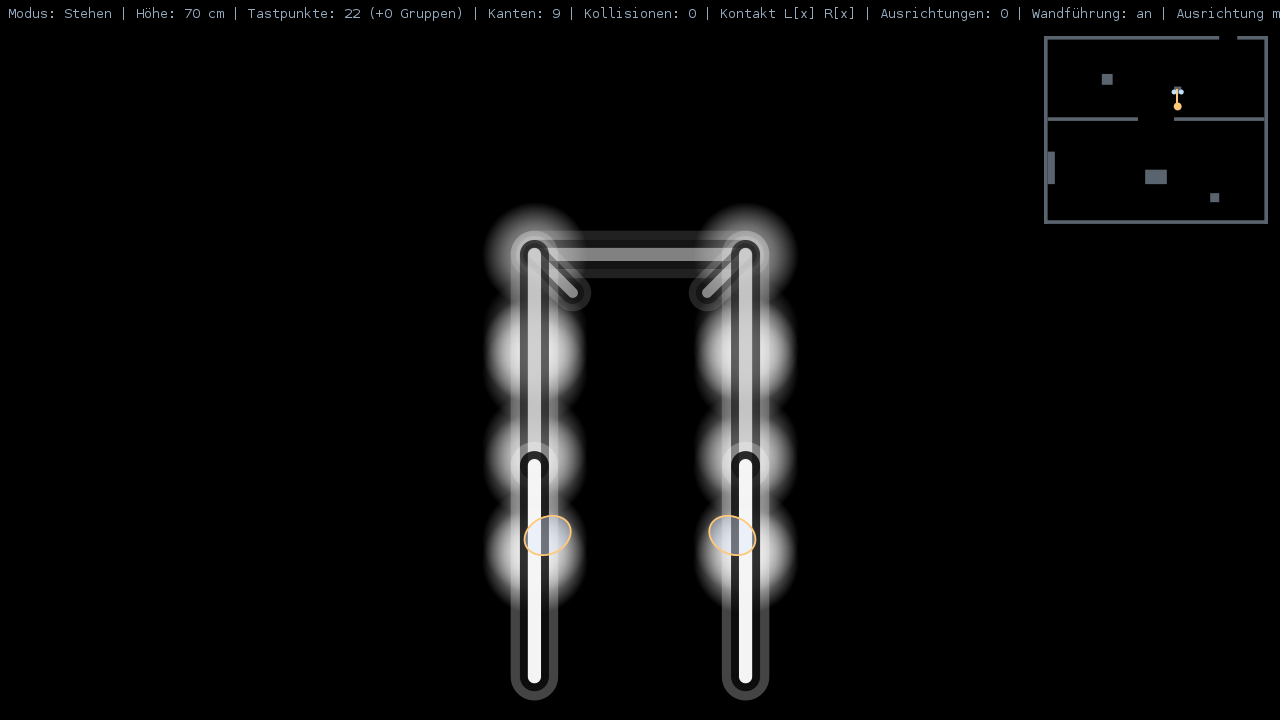
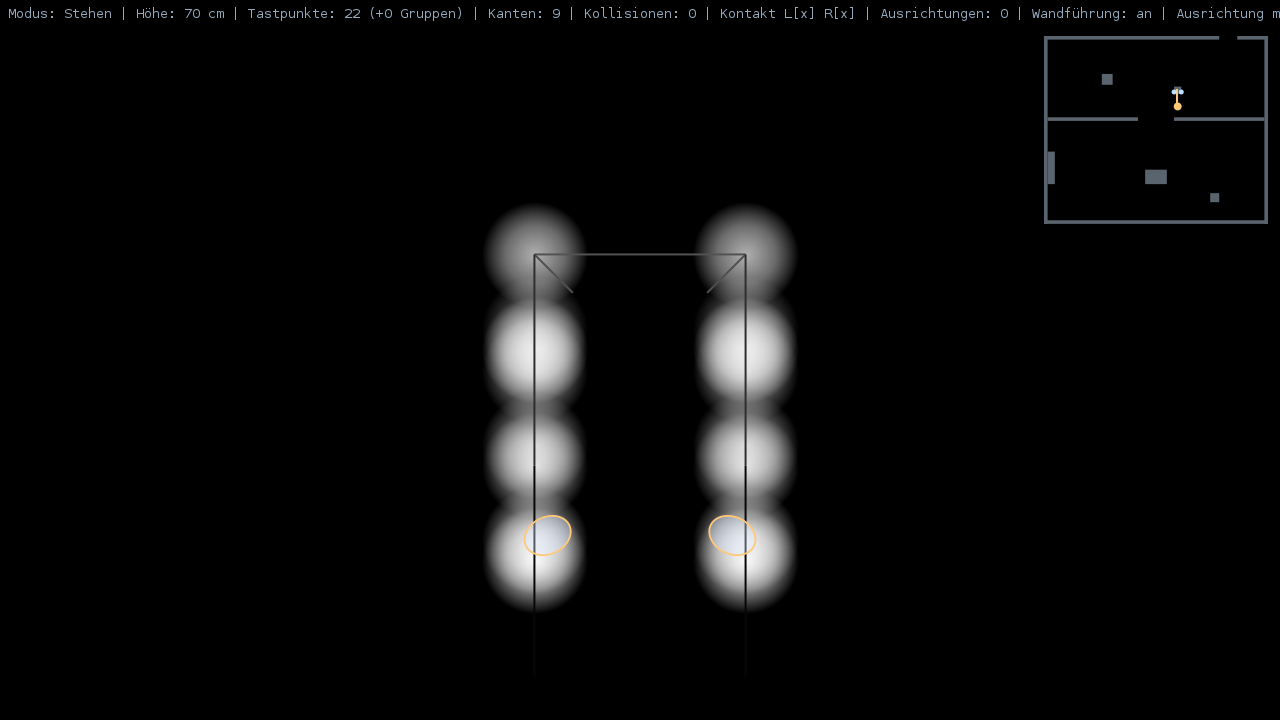
Kanten: schwarze 2-Punkt-Linie, beim Verblassen aufgehellt (Konzept 3.4)
- Linie schwarz, konstant 2 Punkte breit (KANTE_BREITE_PUNKTE), ohne Schein und Saum
- Verblassen gegensätzlich zu den Kugeln: Grauwert bis KANTE_AUFHELLUNG_MAX, ab KANTE_AUSBLENDEN transparent
- Selbsttest angepasst (171 Prüfungen), Konzept/README 3.4, Beispielbilder neu

Claude-Session: https://claude.ai/code/session_01HK92kn1QMMNELsPL5fgYzH

Changed region(s): [[0.375, 0.3056, 0.625, 0.9778]]

diff --git a/test/blindspace/test/Selbsttest.java b/test/blindspace/test/Selbsttest.java
@@ -948,51 +948,65 @@ public final class Selbsttest {
     }
 
     /**
-     * Prüft die Darstellung der Kanten: helle Linie am erwarteten Bildpunkt, schwarz daneben, dunkler bei
-     * verblasster Kante, keine Ausgabe (und kein Fehler) für Kanten hinter der Kamera, Kürzen an der Bildebene.
+     * Prüft die Darstellung der Kanten: schwarze Linie von 2 Punkten Breite auf einer hellen Tastkugel, beim
+     * Verblassen heller (gegensätzlich zur Kugel), am Ende unsichtbar, keine Ausgabe für Kanten hinter der Kamera,
+     * Kürzen an der Bildebene.
      */
     static void kantenDarstellung() {
-        titel("Kanten: Darstellung als helle Linien (Abschnitt 8.5)");
+        titel("Kanten: Darstellung als schwarze Linien (Abschnitt 8.5)");
         int w = 1280, h = 720;
         Spiel s = new Spiel(62, leeresLevel());
         double ez = s.koerper.augenZ();
         double f = (w / 2.0) / Math.tan(SICHTFELD / 2);
         int px = w / 2, py = (int) Math.round(h / 2.0 - f * (1.1 - ez) / 2.0); // Mitte der Kante bei y = 2 m, z = 1,1
         pruefe(py > 40 && py < h - 40, "Aufbau: erwarteter Bildpunkt (" + px + "|" + py + ") liegt im Bild");
+        Kantenstueck kante = new Kantenstueck(1, 2, 0, 0, 2, 0, 2.0, 1.0, 0, 2.0, 1.2, Oberflaeche.GLATT);
 
-        BufferedImage leer = zeichne(s, w, h);
-        pruefe(helligkeit(leer, px, py) < 10, "ohne Kante bleibt der Bildpunkt schwarz");
+        // helle Tastkugel hinter der Kante
+        s.tastpunkte.hinzufuegen(new Tastpunkt(0, 2.0, 1.1, s.zeit(), 1.0, 0.6, KZ_DAUER_STEHEN, 1));
+        BufferedImage kugel = zeichne(s, w, h);
+        pruefe(helligkeit(kugel, px + 12, py) > 120, "Aufbau: Kugel ist hell (" + helligkeit(kugel, px + 12, py) + ")");
 
-        s.tastpunkte.kante(new Tastkante(new Kantenstueck(1, 2, 0, 0, 2, 0, 2.0, 1.0, 0, 2.0, 1.2, Oberflaeche.GLATT),
-                s.zeit(), 1.0, KZ_DAUER_STEHEN));
+        s.tastpunkte.kante(new Tastkante(kante, s.zeit(), 1.0, KZ_DAUER_STEHEN));
         BufferedImage mit = zeichne(s, w, h);
-        pruefe(helligkeit(mit, px, py) > 240, "frische Kante: weißer Kern (" + helligkeit(mit, px, py) + ")");
-        pruefe(helligkeit(mit, px + 80, py) < 10 && helligkeit(mit, px, py - 150) < 10, "neben und über der Linie bleibt es schwarz");
-        int breite = 0;
+        int dunkel = 0;
         for (int x = px - 40; x <= px + 40; x++) {
-            if (helligkeit(mit, x, py) > 200) {
-                breite++;
+            if (helligkeit(mit, x, py) < 60) {
+                dunkel++;
             }
         }
-        pruefe(breite >= (int) KANTE_MIN_PIXEL - 1, "Linie mindestens " + (int) KANTE_MIN_PIXEL + " Pixel breit (" + breite + ")");
+        pruefe(helligkeit(mit, px, py) < 40, "frische Kante: schwarzer Kern (" + helligkeit(mit, px, py) + ")");
+        pruefe(helligkeit(mit, px + 12, py) > 120 && helligkeit(mit, px - 12, py) > 120, "neben der Linie bleibt die Kugel hell");
+        pruefe(dunkel >= 2 && dunkel <= 3, "Linie 2 Punkte breit (" + dunkel + " Pixel)");
 
+        // Verblassen: Kugel und Kante gleich alt (10 s im Stehen): Linie heller als frisch
+        Spiel mittel = new Spiel(66, leeresLevel());
+        mittel.tastpunkte.kante(new Tastkante(kante, mittel.zeit() - 10.0, 1.0, KZ_DAUER_STEHEN));
+        int hMittel = helligkeit(zeichne(mittel, w, h), px, py);
+        pruefe(hMittel > 60 && hMittel < 200, "verblasste Kante ist aufgehellt, grau (" + hMittel + ")");
+        Spiel kg = new Spiel(67, leeresLevel());
+        kg.tastpunkte.hinzufuegen(new Tastpunkt(0, 2.0, 1.1, kg.zeit(), 1.0, 0.6, KZ_DAUER_STEHEN, 1));
+        kg.tastpunkte.kante(new Tastkante(kante, kg.zeit() - 10.0, 1.0, KZ_DAUER_STEHEN));
+        pruefe(helligkeit(zeichne(kg, w, h), px, py) > helligkeit(mit, px, py) + 40, "auf gleicher Kugel: älter = heller als frisch");
+
+        // Ende des Gedächtnisses: unsichtbar auf schwarzem Grund
         Spiel alt = new Spiel(63, leeresLevel());
-        alt.tastpunkte.kante(new Tastkante(teststueck(Oberflaeche.GLATT), alt.zeit() - 29.0, 1.0, KZ_DAUER_STEHEN));
-        pruefe(helligkeit(zeichne(alt, w, h), px, py) < helligkeit(mit, px, py) / 2, "verblasste Kante ist deutlich dunkler");
+        alt.tastpunkte.kante(new Tastkante(kante, alt.zeit() - 29.9, 1.0, KZ_DAUER_STEHEN));
+        pruefe(helligkeit(zeichne(alt, w, h), px, py) < 30, "fast verblasste Kante ist (fast) unsichtbar");
 
-        // Kanten außerhalb des Blickfelds: hinter der Kamera und an ihr vorbei
+        // Kanten außerhalb des Blickfelds: hinter der Kamera und an ihr vorbei (aufgehellte Linie, sichtbar auf Schwarz)
         Spiel hinten = new Spiel(64, leeresLevel());
         hinten.tastpunkte.kante(new Tastkante(new Kantenstueck(1, 2, 0, 0, 0, 0, -2.0, 1.0, 0, -2.0, 1.2, Oberflaeche.GLATT),
-                hinten.zeit(), 1.0, KZ_DAUER_STEHEN));
+                hinten.zeit() - 10.0, 1.0, KZ_DAUER_STEHEN));
         pruefe(helligkeit(zeichne(hinten, w, h), px, py) < 10, "Kante hinter der Kamera wird nicht gezeichnet");
 
         Spiel quer = new Spiel(65, leeresLevel());
         quer.tastpunkte.kante(new Tastkante(new Kantenstueck(1, 1, 0, 0, 0, 0, -1.0, 1.0, 0, 3.0, 1.0, Oberflaeche.GLATT),
-                quer.zeit(), 1.0, KZ_DAUER_STEHEN));
+                quer.zeit() - 10.0, 1.0, KZ_DAUER_STEHEN));
         BufferedImage q = zeichne(quer, w, h);
         int hell = 0;
         for (int yy = 40; yy < h; yy++) {
-            if (helligkeit(q, px, yy) > 200) {
+            if (helligkeit(q, px, yy) > 60) {
                 hell++;
             }
         }

diff --git a/src/blindspace/anzeige/Ansicht.java b/src/blindspace/anzeige/Ansicht.java
@@ -356,19 +356,22 @@ public final class Ansicht extends JPanel {
     }
 
     /**
-     * Zeichnet alle ertasteten Kantenstücke als scharfe weiße Linien mit weichem Schein und dunklem Saum, über den
-     * Tastpunkten, damit keine Kugel eine Kante verdeckt und die Linie auch auf hellem Grund sichtbar bleibt. Die Deckkraft ist die Helligkeit des Stücks; die Linienbreite wächst perspektivisch, bleibt aber mindestens
-     * {@code KANTE_MIN_PIXEL} breit, damit auch entfernte Kanten gut sichtbar sind.
+     * Zeichnet alle ertasteten Kantenstücke als schwarze Linien konstanter Breite ({@code KANTE_BREITE_PUNKTE}) über
+     * den Tastpunkten, als Kontrast zu den hellen Kugeln. Beim Verblassen verhält sich die Linie gegensätzlich zu den
+     * Kugeln: Je dunkler diese werden, desto heller wird die Linie (bis {@code KANTE_AUFHELLUNG_MAX}); unterhalb von
+     * {@code KANTE_AUSBLENDEN} der Starthelligkeit wird sie zusätzlich transparent und verschwindet.
      *
      * @param g   Grafikkontext
      * @param cam Kamera
      */
     private void zeichneKanten(Graphics2D g, Kamera cam) {
         double zeit = spiel.zeit();
+        g.setComposite(AlphaComposite.SrcOver);
         g.setRenderingHint(RenderingHints.KEY_STROKE_CONTROL, RenderingHints.VALUE_STROKE_PURE);
+        g.setStroke(new BasicStroke((float) KANTE_BREITE_PUNKTE, BasicStroke.CAP_BUTT, BasicStroke.JOIN_ROUND));
         for (Tastkante k : spiel.tastpunkte.kanten()) {
-            double hell = Math.min(1.0, k.helligkeit(zeit));
-            if (hell < 0.004) {
+            double rel = Math.min(1.0, k.helligkeit(zeit) / k.h0);
+            if (rel < 0.004) {
                 continue;
             }
             double[] l = cam.strecke(k.stueck.x0(), k.stueck.y0(), k.stueck.z0(), k.stueck.x1(), k.stueck.y1(),
@@ -376,24 +379,11 @@ public final class Ansicht extends JPanel {
             if (l == null) {
                 continue;
             }
-            double tiefe = (l[2] + l[5]) / 2;
-            float breite = (float) Math.max(KANTE_MIN_PIXEL, cam.f * KANTE_BREITE / tiefe);
-            Line2D.Double linie = new Line2D.Double(l[0], l[1], l[3], l[4]);
-            // Schein (weiß, breit, schwach), dunkler Saum (hebt die Linie von hellen Tastpunkten ab), heller Kern
-            g.setComposite(AlphaComposite.getInstance(AlphaComposite.SRC_OVER, (float) (0.28 * hell)));
-            g.setStroke(new BasicStroke(breite * 3.6f, BasicStroke.CAP_ROUND, BasicStroke.JOIN_ROUND));
-            g.setColor(Color.WHITE);
-            g.draw(linie);
-            g.setComposite(AlphaComposite.getInstance(AlphaComposite.SRC_OVER, (float) (0.85 * hell)));
-            g.setStroke(new BasicStroke(breite * 2.2f, BasicStroke.CAP_ROUND, BasicStroke.JOIN_ROUND));
-            g.setColor(Color.BLACK);
-            g.draw(linie);
-            g.setComposite(AlphaComposite.getInstance(AlphaComposite.SRC_OVER, (float) hell));
-            g.setStroke(new BasicStroke(breite, BasicStroke.CAP_ROUND, BasicStroke.JOIN_ROUND));
-            g.setColor(Color.WHITE);
-            g.draw(linie);
+            int grau = (int) Math.round(255 * KANTE_AUFHELLUNG_MAX * (1 - rel));
+            int deckkraft = (int) Math.round(255 * Math.min(1.0, rel / KANTE_AUSBLENDEN));
+            g.setColor(new Color(grau, grau, grau, deckkraft));
+            g.draw(new Line2D.Double(l[0], l[1], l[3], l[4]));
         }
-        g.setComposite(AlphaComposite.SrcOver);
         g.setStroke(new BasicStroke(1f));
     }
 

diff --git a/src/blindspace/konfig/Konstanten.java b/src/blindspace/konfig/Konstanten.java
@@ -146,11 +146,20 @@ public final class Konstanten {
      */
     public static final double KANTE_ERNEUERUNG = 0.1;
 
-    /** Linienbreite einer Kante in Metern (perspektivisch skaliert). */
-    public static final double KANTE_BREITE = 0.025;
+    /** Linienbreite einer Kante auf dem Bildschirm in Punkten (unabhängig von der Entfernung). */
+    public static final double KANTE_BREITE_PUNKTE = 2.0;
 
-    /** Kleinste Linienbreite einer Kante auf dem Bildschirm in Pixeln. */
-    public static final double KANTE_MIN_PIXEL = 4.0;
+    /**
+     * Größter Grauwert (0 = schwarz, 1 = weiß), auf den eine verblassende Kante aufgehellt wird. Eine frische Kante
+     * ist schwarz (Kontrast zu den hellen Tastkugeln); je mehr die Kugeln verblassen, desto heller wird die Linie.
+     */
+    public static final double KANTE_AUFHELLUNG_MAX = 0.6;
+
+    /**
+     * Relative Helligkeit (aktuelle durch Start-Helligkeit), unterhalb der eine Kante zusätzlich ausgeblendet wird,
+     * damit sie am Ende des Gedächtnisses verschwindet, statt als helle Linie stehen zu bleiben.
+     */
+    public static final double KANTE_AUSBLENDEN = 0.25;
 
     // ===== Gedächtnis (Konzept Abschnitt 8) =====
 

diff --git a/docs/Blindspace_Konzept_v3.md b/docs/Blindspace_Konzept_v3.md
@@ -1,4 +1,4 @@
-# Blindspace – Spielkonzept, Version 3.3 (bereinigt)
+# Blindspace – Spielkonzept, Version 3.4 (bereinigt)
 
 > Dieses Dokument beschreibt das Spielkonzept „Blindspace" (früher „Der Ausgang") vollständig, inklusive aller Entscheidungen aus der Prototyp-Iteration und der anschließenden Konzeptprüfung. Es ist als Eingabe (KI-Prompt) für die nächste Iteration formuliert. Ein existierender Java-Prototyp (Eclipse, Java 17, AWT/Swing, keine externen Abhängigkeiten) bestätigt die Spielbarkeit der Mechanik. Diese Fassung ersetzt Version 1 und 2 und ist die verbindliche Basis. Das übergeordnete Spielkonzept steht im „Blindspace – Game Design Document" (Version 1.0); dieses Dokument legt die Steuerung und das Gedächtnismodell des Prototyps fest und weist Abweichungen zum GDD aus (Abschnitt 15).
 
@@ -19,7 +19,7 @@
 | 7.5 | (v3.2) Neu: **automatische Parallelausrichtung** beim Loslaufen, wenn eine seitlich tastende Hand eine senkrechte Fläche berührt und die Blickrichtung höchstens 20° von der Flächenrichtung abweicht. Sie startet auch die Wandführung. Die Ausrichtung per Leertaste bleibt. |
 | 4.3 | (v3.2) Tiefstes Tastband beginnt bei 5 cm statt 20 cm (Stufen ertastbar); Maximum bleibt 180 cm. Der Boden selbst und Gegenstände unterhalb des Bandes sind nicht ertastbar. |
 | 4.3, 5 | (v3.2) Geduckt (Körperhöhen 70 / 50 / 30 cm) sind Einzelschritte von 10 cm vorwärts und rückwärts möglich; bisher war Gehen geduckt gesperrt. |
-| 8.5 | (v3.3) Neu: **Kanten.** Berührt eine Hand eine Quaderfläche höchstens 5 cm von einer Kante entfernt, wird ein 40 cm langes Kantenstück als helle Linie sichtbar (weißer Kern, dunkler Saum, über den Tastpunkten). Kanten werden bei jedem Simulationsschritt geprüft, verblassen wie Tastpunkte und werden bei erneuter Berührung aufgefrischt. Abweichung vom GDD: Linien statt Kugeln (Abschnitt 15.2). |
+| 8.5 | (v3.4) Darstellung geändert: schwarze Linie, 2 Punkte breit, beim Verblassen aufgehellt (gegensätzlich zu den Kugeln). (v3.3) Neu: **Kanten.** Berührt eine Hand eine Quaderfläche höchstens 5 cm von einer Kante entfernt, wird ein 40 cm langes Kantenstück als Linie sichtbar (schwarz, über den Tastpunkten). Kanten werden bei jedem Simulationsschritt geprüft, verblassen wie Tastpunkte und werden bei erneuter Berührung aufgefrischt. Abweichung vom GDD: Linien statt Kugeln (Abschnitt 15.2). |
 | 15 | Neu in v3.0: Mehrgeschossigkeit (Planung) und Abgleich mit dem Blindspace-GDD. |
 | 9 | Ablauf bei niedrigen Objekten neu beschrieben; Erreichbarkeitstabelle ergänzt (korrigiert in v2.1); Pfeiler auf 1,6 m erhöht; Tippfehler und Widerspruch entfernt. |
 | 14 | Neu in v2.1: Umsetzungsentscheidungen des Eclipse-Prototyps. |
@@ -253,7 +253,7 @@ Kanten sind wichtig, um Objekte zu erkennen (GDD Abschnitt 16: „Unterscheidung
 - **Takt.** Anders als Tastpunkte (höchstens alle 0,5 s) werden Kanten bei **jedem Simulationsschritt** geprüft. Eine Hand, die schnell über eine Kante streicht (bis 1,6 m/s), würde die schmale Zone sonst zwischen zwei Tastpunkten verpassen.
 - **Helligkeit und Gedächtnis.** Start 100 % im Stehen und **80 %** im Gehen, also heller als ein Tastpunkt (50 % im Gehen), damit Linien lesbar bleiben. Im Kurzzeitgedächtnis gilt dasselbe Verblassen wie bei Punkten (8.3: 15 s im Gehen, 30 s im Stehen bis 2,5 %). Danach sinkt die Helligkeit linear auf 0 (12 min, bei strukturierten Oberflächen 6 min). Kanten werden **nicht zu Gruppen zusammengefasst und nicht unscharf**: Ein Kantenstück bleibt eine scharfe Linie, bis es verschwindet. Kollisionen dämpfen Kanten wie Punkte (Faktoren aus Abschnitt 6).
 - **Auffrischen.** Von jedem Kantenstück gibt es höchstens eine Instanz. Eine erneute Berührung setzt Helligkeit und Zeit zurück (frühestens 0,1 s nach der letzten Aufnahme, `KANTE_ERNEUERUNG`). Das ist für Kanten schon festgelegt, damit nicht bei jedem Schritt neue Objekte entstehen; ein Zeitzuschlag (+2 s, GDD Abschnitt 4) gibt es nicht. Für Tastpunkte bleibt das Auffrischen offen (15.2).
-- **Darstellung.** Weiße Linie, 2,5 cm breit (perspektivisch, auf dem Bildschirm mindestens 4 Pixel), mit weichem weißem Schein und einem **dunklen Saum**. Der Saum hebt die Linie auch von hellen Tastpunkten ab, über denen sie gezeichnet wird. Linien, die teilweise hinter der Kamera liegen, werden an der Bildebene gekürzt. Es gibt keine Farben (Schwarz-Weiß wie überall, Abschnitt 8.1).
+- **Darstellung (v3.4).** Die Linie ist **schwarz** und **2 Punkte breit**, unabhängig von der Entfernung (`KANTE_BREITE_PUNKTE`); sie liegt über den Tastpunkten und bildet den Kontrast zu den hellen Kugeln. Beim Verblassen verhält sie sich **gegensätzlich** zu den Kugeln: Je dunkler diese werden, desto heller wird die Linie (Grauwert bis `KANTE_AUFHELLUNG_MAX` = 60 %); unter 25 % der Starthelligkeit (`KANTE_AUSBLENDEN`) wird sie zusätzlich transparent und verschwindet am Ende des Gedächtnisses. Kein Schein, kein Saum. Linien, die teilweise hinter der Kamera liegen, werden an der Bildebene gekürzt. Auf schwarzem Grund ist eine frische Kante unsichtbar; sie wirkt nur dort, wo Tastkugeln liegen. Die Darstellung ist bewusst allgemein gehalten, damit später auch Ränder anderer Objekte so gezeichnet werden können.
 - **Beispielbild:** `docs/bilder/5_kanten_pfeiler.png` zeigt die Hände am Pfeiler: zusammenhängende senkrechte Kanten, die Oberkante, und ältere, schon verblasste Stücke oben.
 
 ## 9. Testlevel (Prototyp)
@@ -339,7 +339,8 @@ Alle Werte liegen in einer zentralen Konstantenklasse und lassen sich ohne Eingr
 | Kante: Länge eines Stücks (`KANTE_LAENGE`) | 40 cm |
 | Kante: Starthelligkeit Gehen / Stehen | 80 % / 100 % |
 | Kante: Mindestabstand fürs Auffrischen (`KANTE_ERNEUERUNG`) | 0,1 s |
-| Kante: Linienbreite / mindestens (`KANTE_BREITE`, `KANTE_MIN_PIXEL`) | 2,5 cm / 4 Pixel |
+| Kante: Linienbreite (`KANTE_BREITE_PUNKTE`) | 2 Punkte |
+| Kante: größte Aufhellung / Ausblenden unter (`KANTE_AUFHELLUNG_MAX`, `KANTE_AUSBLENDEN`) | 60 % Grau / 25 % Helligkeit |
 | Tastbänder | siehe 4.3 |
 
 ## 13. Auftrag für die KI / nächste Iteration
@@ -355,7 +356,7 @@ Implementiere (oder analysiere) dieses Konzept als spielbaren Prototyp in Java (
 7. Manuelle Ausrichtung nach Abschnitt 7: Protokoll in jedem Modus, Tastpaar (gleiche Fläche, 20–80 cm, 0,4–20 s), Ausführung nur per Leertaste/Num 0, Parallel (seitliches Tasten) oder Senkrecht (Tasten nach vorn), Wandführung ab gültigem Tastpaar bis kein Objekt mehr in Reichweite. Zusätzlich automatische Parallelausrichtung beim Loslaufen mit seitlichem Wandkontakt bis 20° Abweichung (Abschnitt 7.5).
 8. Hände synchron gespiegelt, im Körper-Koordinatensystem geführt (drehen immer mit), synchroner Stopp bei einseitigem Kontakt, definierte Startpose.
 9. Alle Balancing-Werte in einer zentralen Konstantenklasse (Abschnitt 12).
-10. Kanten nach Abschnitt 8.5: Berührung höchstens 5 cm von einer Quaderkante ertastet ein 40-cm-Kantenstück, Prüfung bei jedem Simulationsschritt, Darstellung als weiße Linie mit dunklem Saum über den Tastpunkten.
+10. Kanten nach Abschnitt 8.5: Berührung höchstens 5 cm von einer Quaderkante ertastet ein 40-cm-Kantenstück, Prüfung bei jedem Simulationsschritt, Darstellung als schwarze 2-Punkt-Linie über den Tastpunkten, beim Verblassen aufgehellt.
 
 ## 14. Umsetzungsentscheidungen des Eclipse-Prototyps (v2.1)
 
@@ -379,7 +380,7 @@ Beim Umsetzen mussten einige Details festgelegt werden, die das Konzept offenlie
 | Duckschritte (v3.2) | Jeder Tastendruck ergibt genau einen Schritt von 10 cm; nach dem Schritt sperrt die Gehsperre bis zum Loslassen der Taste. Kein Halbschritt, keine Drift, Modus „Stehen“. Die Blockade durch die vordere Hand gilt unverändert. |
 | Tastband und Boden (v3.2) | Das tiefste Band beginnt bei 5 cm. Die Hände sondieren ohne Boden (`Welt.sondiere(..., false)`); die Variante mit Boden bleibt für die Welt und die Tests erhalten. |
 | Kanten (v3.3) | `Welt.kanten` liefert zu einer `Beruehrung` die `Kantenstueck`e (Record, Schlüssel der Verwaltung); `Tastkante` hält Zeit und Helligkeit, `Tastpunkte` verwaltet sie in einer Map (ein Eintrag je Stück). `Spiel` prüft bei jedem Schritt jede Hand mit Kontakt. Die Geometrie liegt in `welt`, damit `tasten` weiterhin nur `welt` nutzt (keine Zyklen). |
-| Kantenlinie (v3.3) | `Ansicht.zeichneKanten`: Schein, dunkler Saum, heller Kern, nach den Punkten gezeichnet; die Kamera kürzt Strecken an der Bildebene (`Kamera.strecke`). |
+| Kantenlinie (v3.4) | `Ansicht.zeichneKanten`: eine schwarze Linie von 2 Punkten, nach den Punkten gezeichnet, Grauwert und Deckkraft aus der relativen Helligkeit; die Kamera kürzt Strecken an der Bildebene (`Kamera.strecke`). |
 | Wandführung | Endet, wenn keine Hand Kontakt hat und der horizontale Abstand zur nächsten Fläche im aktuellen Tastband größer als 1,0 m ist. |
 | Kamera | Auge in der Kopfmitte (Körperhöhe + 70 cm), Sichtfeld 120°, Blick fest an die Körperausrichtung gebunden. |
 | Entwicklungshilfe | F3 blendet eine Draufsicht ein (nur zum Testen, widerspricht dem Blind-Konzept). F1 blendet die Hilfe ein, R startet neu. |
@@ -421,6 +422,6 @@ Eine Umsetzung ist für Phase 3 des GDD vorgesehen und erfordert die Änderungen
 | Mehrgeschossigkeit | Treppen, Podeste | geplant (15.1) |
 | Audio | später, unterstützend | später; Prototyp bewusst ohne Audio |
 | Tastpunkt-Menge | – | durch Verblassungsgruppen begrenzt |
-| Kanten | „Unterscheidung von Oberflächen über Muster und Kanten“ (Abschnitt 16); Kontakte erzeugen kugelförmige Visualisierungen (Abschnitt 14) | **umgesetzt (v3.3, 8.5). Abweichung:** Kantenstücke sind Linien statt Kugeln, 40 cm lang, mit eigener Helligkeit (80 % im Gehen) und ohne Gruppierung im Langzeitgedächtnis. Das GDD beschreibt Kanten nur in der Zusammenfassung; Form und Werte sind eine Auslegung und im Spieltest zu prüfen |
+| Kanten | „Unterscheidung von Oberflächen über Muster und Kanten“ (Abschnitt 16); Kontakte erzeugen kugelförmige Visualisierungen (Abschnitt 14) | **umgesetzt (v3.3, 8.5). Abweichung:** Kantenstücke sind Linien statt Kugeln, 40 cm lang, schwarz statt hell (Kontrast zu den Kugeln), mit eigener Helligkeit (80 % im Gehen) und ohne Gruppierung im Langzeitgedächtnis. Das GDD beschreibt Kanten nur in der Zusammenfassung; Form und Werte sind eine Auslegung und im Spieltest zu prüfen |
 | Automatische Ausrichtung, Duckschritte, Tastband ab 5 cm | – (nicht im GDD) | konzeptinterne Ergänzungen (v3.2), kein Widerspruch zum GDD; GDD Abschnitt 14 nennt Bewegungsungenauigkeit als Schwierigkeitsfaktor, die Wandführung mildert sie an Wänden |
 | Darstellung | nur Schwarz/Weiß | übernommen für die Tastpunkte (weiß auf schwarz). Die Handränder (hell, bei Kontakt orange) und das HUD sind Rückmeldungen des Prototyps und bleiben farbig |

diff --git a/README.md b/README.md
@@ -1,7 +1,7 @@
 # Blindspace – Steuerungs- und Visualisierungsprototyp
 
 Blindes First-Person-Erkundungsspiel: Die Welt ist unsichtbar und wird nur durch Abtasten mit den Händen
-sichtbar. Umgesetzt ist das Konzept `docs/Blindspace_Konzept_v3.md` (Version 3.3). Java 17, AWT/Swing,
+sichtbar. Umgesetzt ist das Konzept `docs/Blindspace_Konzept_v3.md` (Version 3.4). Java 17, AWT/Swing,
 keine externen Abhängigkeiten.
 
 ## In Eclipse öffnen
